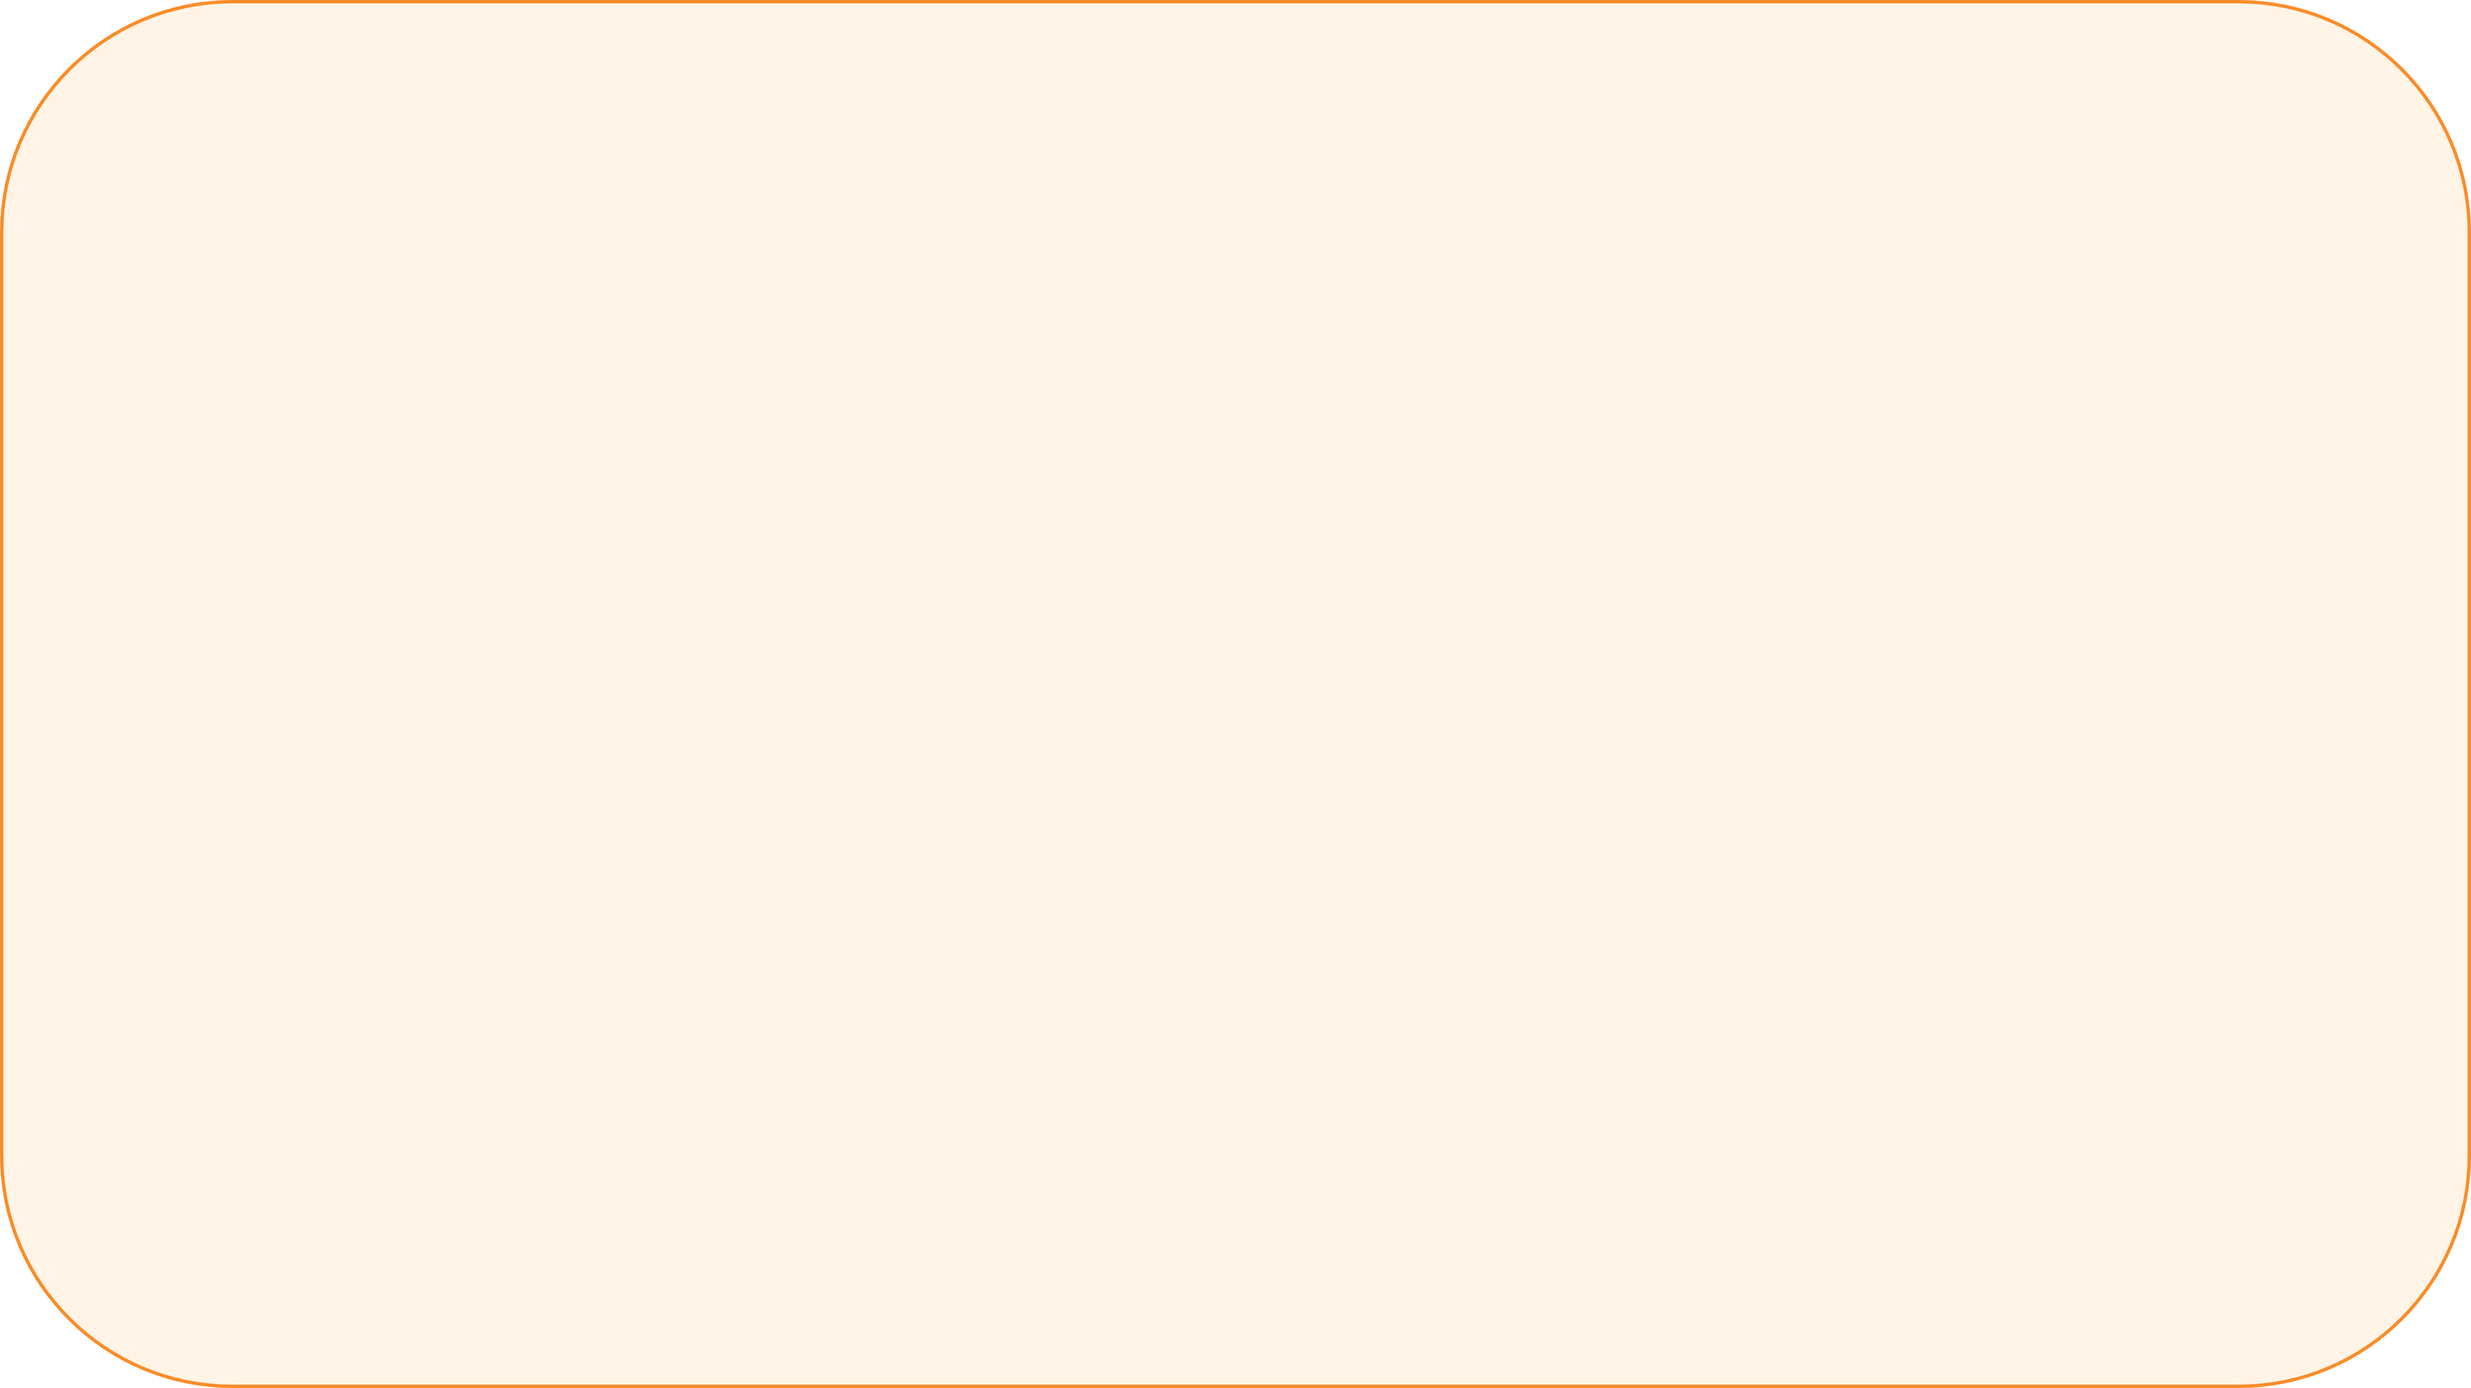
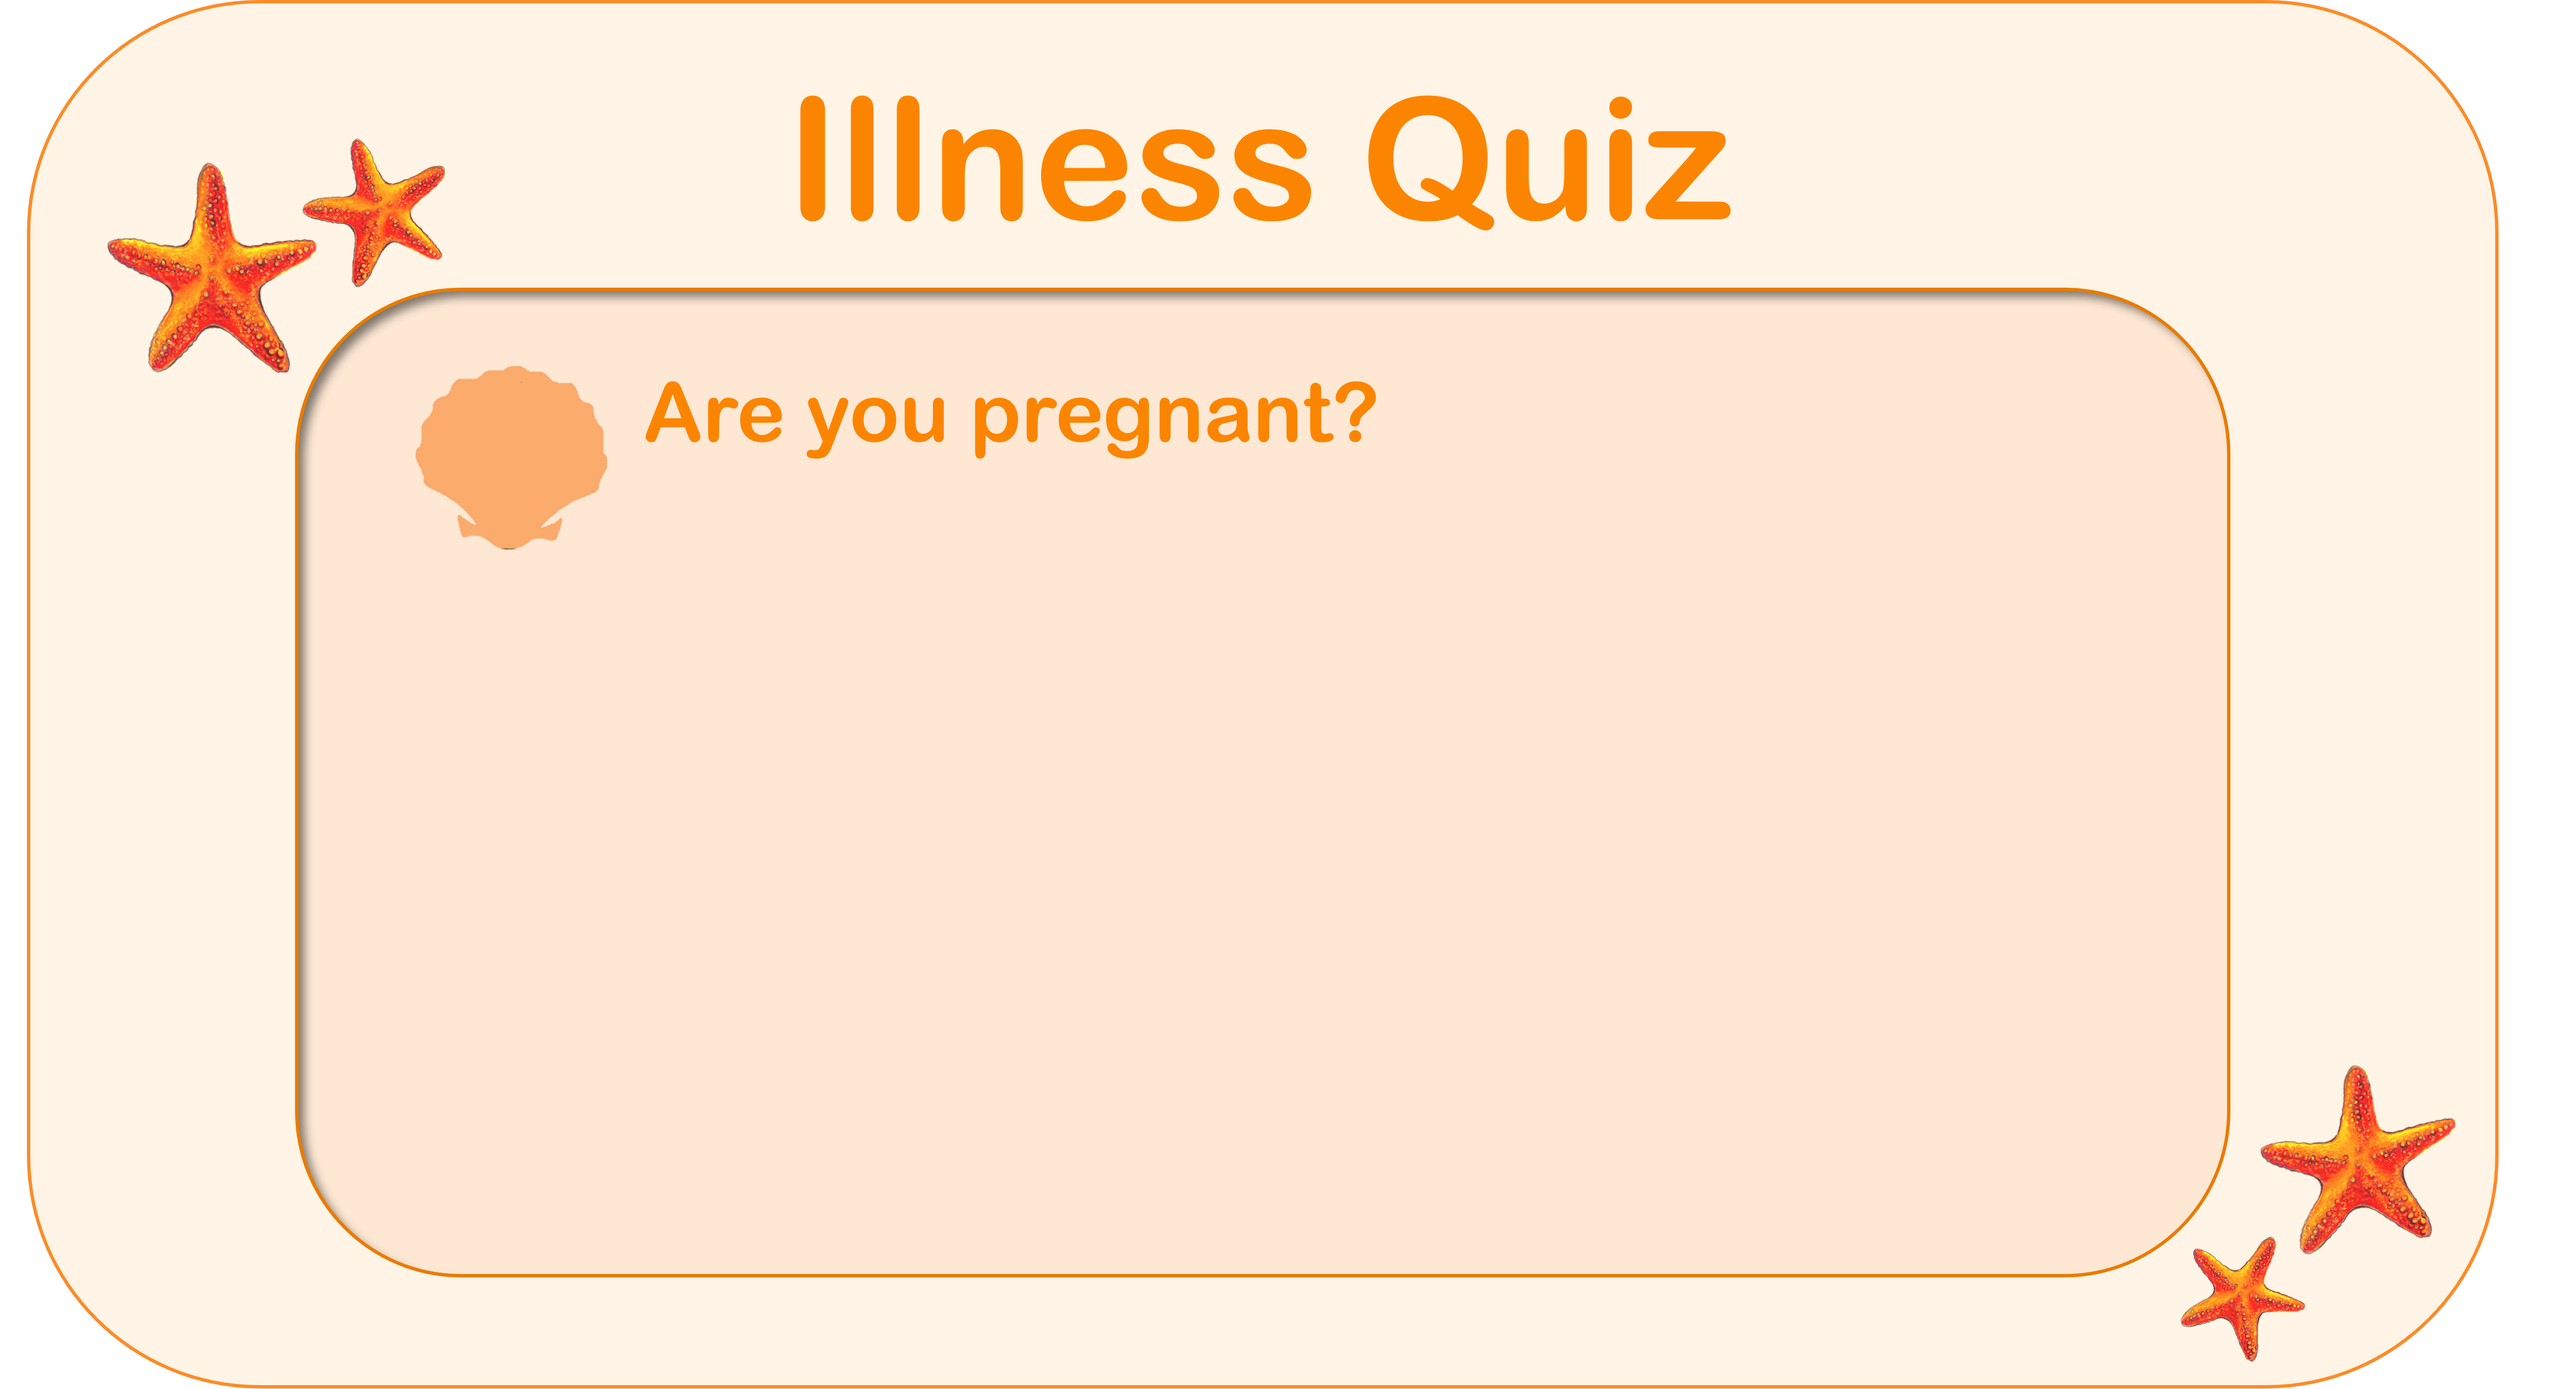
thjmn srgbjkdsgjnf

diff --git a/healthquiz.html b/healthquiz.html
@@ -91,34 +91,25 @@
               </ol>
               <div class="carousel-inner">
               <div class="item active">
-                  <center><img src=""></center>
+                  <center><img src="images/quiz1.png" height="500px"></center>
               </div>  
               <div class="item">
-                  <center><img src=""></center>
+                  <center><img src="images/quiz2.png" height="500px"></center>
               </div> 
               <div class="item">
-                  <center><img src=""></center>
+                  <center><img src="images/quiz3.png" height="500px"></center>
               </div>
               <div class="item">
-                <center><img src=""></center>
+                <center><img src="images/quiz4.png" height="500px"></center>
               </div>
               <div class="item">
-                <center><img src=""></center>
+                <center><img src="images/quiz5.png" height="500px"></center>
               </div>
               <div class="item">
-                <center><img src=""></center>
+                <center><img src="images/quiz6.png" height="500px"></center>
               </div>
               <div class="item">
-                <center><img src=""></center>
-              </div>
-              <div class="item">
-                <center><img src=""></center>
-              </div>
-              <div class="item">
-                <center><img src=""></center>
-              </div>
-              <div class="item">
-                <center><img src=""></center>
+                <center><img src="images/quiz7.png" height="500px"></center>
               </div>
               </div>
               <a class="left carousel-control" href="#myCarousel" data-slide="prev">

diff --git a/style.css b/style.css
@@ -325,3 +325,61 @@ div.beardoc{
   height: 70px;
   width: 100px;
 }
+
+.carousel-control.left {
+  right: auto;
+  left: 0;
+  background-image: none;
+  background-image: none;
+  background-image: none;
+  background-image: none;
+  filter: progid:DXImageTransform.Microsoft.gradient(startColorstr='#00000000', endColorstr='#80000000', GradientType=1);
+  background-repeat: repeat-x;
+}
+
+.carousel-control.right {
+  right: 0;
+  left: auto;
+  background-image: none;
+  background-image: none;
+  background-image: none;
+  background-image: none;
+  filter: progid:DXImageTransform.Microsoft.gradient(startColorstr='#00000000', endColorstr='#80000000', GradientType=1);
+  background-repeat: repeat-x;
+}
+
+.carousel-control .glyphicon-chevron-left, .carousel-control .icon-prev {
+    margin-left: -10px;
+}
+
+.carousel-control .glyphicon-chevron-left, .carousel-control .glyphicon-chevron-right, .carousel-control .icon-next, .carousel-control .icon-prev {
+    width: 30px;
+    height: 30px;
+    margin-top: -10px;
+    font-size: 30px;
+}
+.carousel-control .glyphicon-chevron-left, .carousel-control .icon-prev {
+    left: 50%;
+    margin-left: -10px;
+}
+.carousel-control .glyphicon-chevron-left, .carousel-control .glyphicon-chevron-right, .carousel-control .icon-next, .carousel-control .icon-prev {
+    position: absolute;
+    top: 50%;
+    z-index: 5;
+    display: inline-block;
+    margin-top: -10px;
+}
+:root * {
+    box-sizing: border-box;
+}
+.glyphicon {
+    position: relative;
+    top: 1px;
+    display: inline-block;
+    font-family: "Glyphicons Halflings";
+    font-style: normal;
+    font-weight: 400;
+    line-height: 1;
+    -webkit-font-smoothing: antialiased;
+    -moz-osx-font-smoothing: grayscale;
+}
